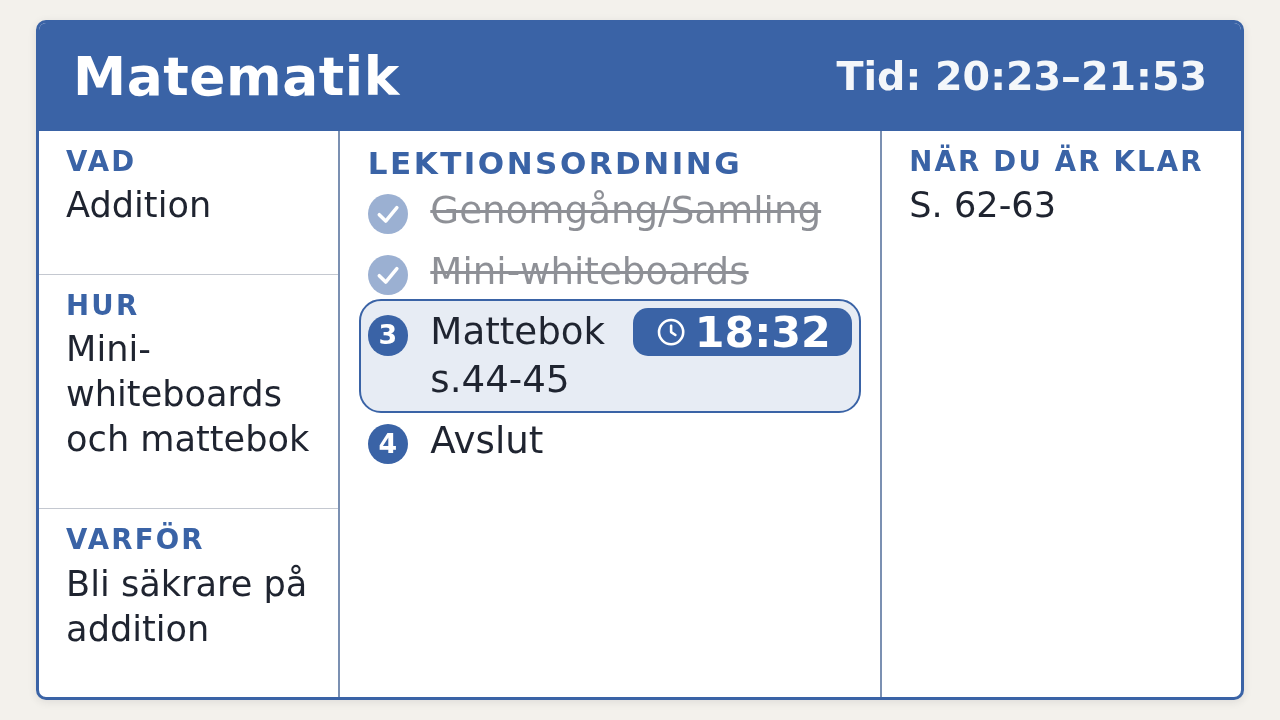
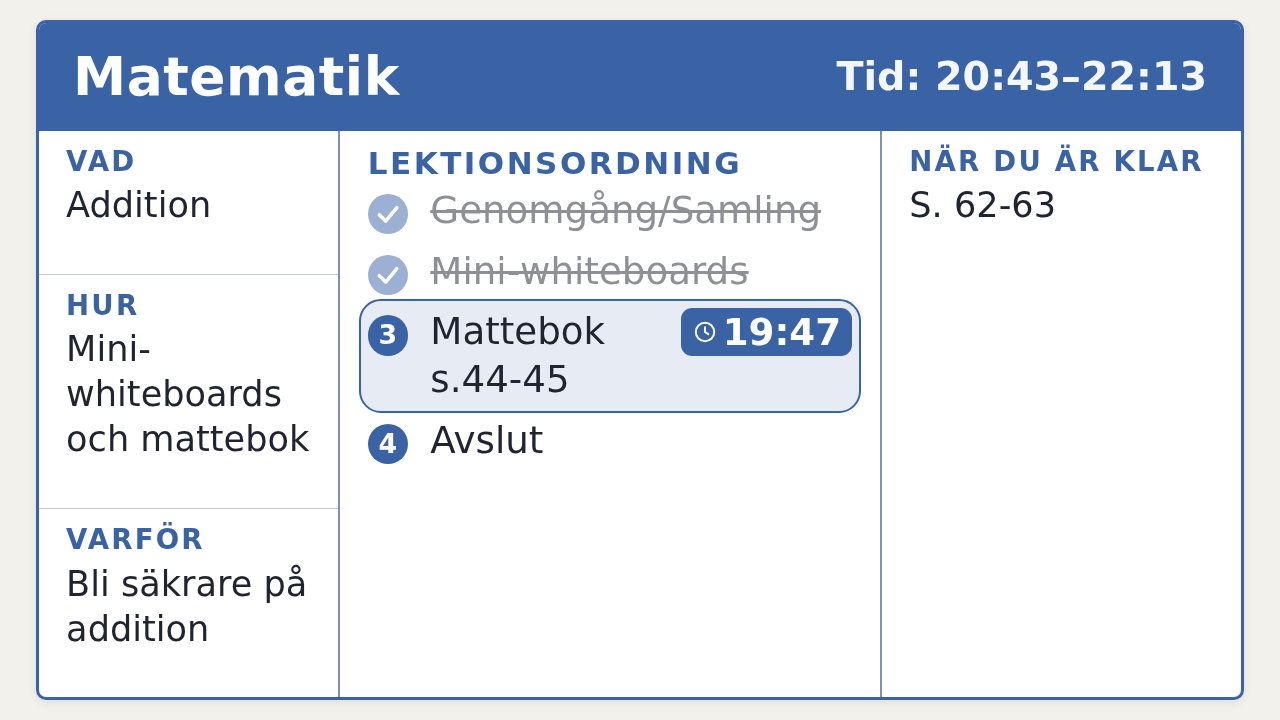
issue #146: timerbrickan i stegtextens storlek, smalare padding och ikon; tester och skärmbilder

Changed region(s): [[0.4688, 0.4278, 0.6562, 0.5194], [0.875, 0.0917, 0.9375, 0.1222], [0.7812, 0.0917, 0.8125, 0.1222]]

diff --git a/css/modes/lektion.css b/css/modes/lektion.css
@@ -717,23 +717,23 @@ ol.lb-steps > li.lb-step--now {
    bredvid brickan (ingen fast bredd eller flex-basis). */
 .lb-step--timer > .lb-step__text { flex: 1 1 auto; min-width: 0; }
 /* Timerbrickan: ifylld i ämnets färg, som rubrikraden (--subj/--subj-ink =
-   subjectStyle().color/textColor), så att den syns på projektorn.
-   align-self: flex-start + höjden = stegtextens radhöjd (1.28 i
-   brödtextens em, brickan är 1.15 gånger större): brickan ligger mitt på
-   textens första rad — med text på en rad centrerad med bubbla och text —
-   och gör aldrig raden högre än de andra stegen. Siffrornas glyfer får
-   plats inom höjden (line-height: 1). */
+   subjectStyle().color/textColor), så att den syns på projektorn. Samma
+   textstorlek som steget (fetstil gör den tydlig) och smal padding, så att
+   ett kort steg ("Mattebok s.44-45") oftare ryms på raden bredvid.
+   align-self: flex-start + höjden = stegtextens radhöjd (1.28): brickan
+   ligger mitt på textens första rad — med text på en rad centrerad med
+   bubbla och text — och gör aldrig raden högre än de andra stegen. */
 .lb-step__timer {
   flex: none;
   align-self: flex-start;
-  height: calc(1.28em / 1.15);
+  height: 1.28em;
   box-sizing: border-box;
   display: inline-flex;
   align-items: center;
-  gap: 0.15em;
-  padding: 0.1em 0.5em;
-  border-radius: 0.35em;
-  font-size: 1.15em;
+  gap: 0.12em;
+  padding: 0.05em 0.3em;
+  border-radius: 0.3em;
+  font-size: 1em;
   line-height: 1;
   font-weight: 700;
   font-variant-numeric: tabular-nums;
@@ -741,7 +741,7 @@ ol.lb-steps > li.lb-step--now {
   background: var(--subj);
   color: var(--subj-ink);
 }
-.lb-step__timer .icon { width: 0.8em; height: 0.8em; }
+.lb-step__timer .icon { width: 0.7em; height: 0.7em; }
 /* Klart: hela brickan pulserar mjukt — aldrig rött, inget ljud. Steget
    går inte vidare av sig självt. */
 .lb-step__timer[data-phase="done"] { animation: lb-step-pulse 1.8s ease-in-out infinite; }

diff --git a/docs/screenshots/issue-146/README.md b/docs/screenshots/issue-146/README.md
@@ -15,17 +15,17 @@ tema — tavlans papper är vitt i alla teman, bara panelen skiljer).
 |---|---|
 | `1-fore-elev-{1280,1920}-inget-markerat` / `1-efter-…` | Inget steg markerat. **Pixelidentiska** (råa PNG-pixlar jämförda, båda storlekarna). |
 | `2-elev-…-steg3-utan-timer` | Steg 1–2 bockade, steg 3 med ram + ton, ingen timer. |
-| `3-elev-{1280,1920}-matte-nedrakning`, `3-larare-{ljust,morkt}-1280-nedrakning` | Steg 3 med timern som ifylld bricka i ämnesfärgen (rättelse från läraren: syns på projektorn), på stegtextens första rad. Sidopanelen: Pågår, +1 min, Stoppa timer. |
-| `4-elev-1280-matte-klart-puls-{ljus,mork}`, `4-elev-1920-matte-klart` | Klart: hela brickan pulserar, pulsens två lägen (opacitet 1 och 0,5, fångade med animationen stoppad). |
-| `5-elev-1280-slojd-nedrakning`, `5-elev-1920-slojd-klart` | Ett ljust ämne (Slöjd): brickan i ämnets färg med mörk text, ramen i `--subj-deep`. |
-| `6-elev-{1280,1920}-lang-text-nedrakning` | Lång stegtext + timer: texten bryts till vänster om brickan, ramen omsluter allt, inget överlapp (mätt). |
+| `3-elev-{1280,1920}-matte-nedrakning`, `3-larare-{ljust,morkt}-1280-nedrakning` | Steg 3 med timern som ifylld bricka i ämnesfärgen, i stegtextens storlek (fetstil, smal padding, ikon 0.7em), på textens första rad. Sidopanelen: Pågår, +1 min, Stoppa timer. |
+| `4-elev-1920-matte-klart-puls-{ljus,mork}`, `4-elev-1280-matte-klart` | Klart: hela brickan pulserar; pulsens två lägen (opacitet 1 och 0,5, fångade med animationen stoppad). |
+| `5-elev-1280-slojd-{nedrakning,klart}` | Ett ljust ämne (Slöjd): brickan i ämnets färg med mörk text. |
+| `6-elev-1280-lang-text-nedrakning` | Lång stegtext + timer: texten bryts till vänster om brickan, ramen omsluter allt, inget överlapp (mätt). |
 
-**Känd begränsning (finding 1):** "Mattebok s.44-45" får inte plats på en
-rad bredvid brickan i 1280 eller 1920. Mätt på elevskärmen 1280×720: raden
-484 px; texten behöver 326 px, brickan 220 px, bubbla + två mellanrum 84 px
-= 630 px. Proportionerna är desamma i 1920 (allt skalar med tavlans
-bredd). Texten tar ändå all ledig plats och bryts bara för att den inte
-ryms; i en bredare mittenkolumn (t.ex. utan Vad/Hur/Varför) står den på en rad.
+**Finding 1 (kvarstår):** även med den mindre brickan (stegtextens storlek,
+171 px i stället för 220 px på elevskärmen 1280×720) ryms inte
+"Mattebok s.44-45" på en rad: raden är 484 px, texten 326 px, bubbla +
+två mellanrum 84 px — brickan skulle behöva vara högst ~74 px. Samma
+proportioner i 1920. Texten bryts ändå bara för att den inte ryms; kortare
+steg ("Avslut", "Mini-whiteboards") och bredare mittenkolumner står på en rad.
 
 ## Uppmätt i webbläsaren (elevskärmen 1280×720)
 
